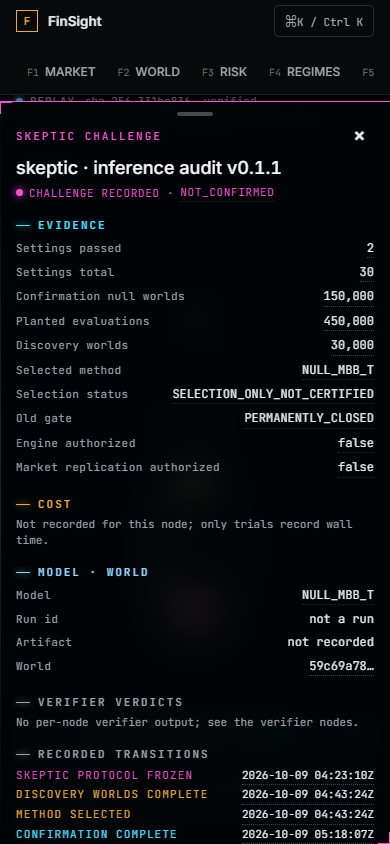
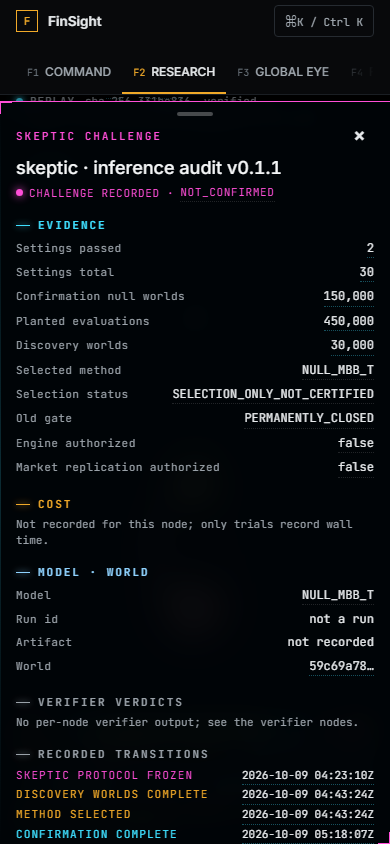
docs(research): record the #37 follow-ups; refresh Research screenshots

Changed region(s): [[0.1231, 0.0616, 0.8615, 0.0924], [0.9231, 0.0616, 0.9538, 0.0924]]

diff --git a/docs/q3-visual-research.md b/docs/q3-visual-research.md
@@ -85,11 +85,21 @@ node scripts/verify-research.mjs --url http://127.0.0.1:4178      # browser chec
 - Screenshots: `docs/screenshots/q3-research-bloom-{1440,390}.png` and
   `q3-research-hud-{1440,390}.png`.
 
+## Follow-ups landed (after #37)
+
+- The shell now has seven workspaces (#39); Research is F2.
+- A suggested question from F1 Command arrives as `?q=` and shows in the inert prompt line, marked
+  "suggested, not run" (#39).
+- Labels try vertical nudges before hiding. A nudged label keeps a thin leader back to its node, and labels
+  keep a 16 px gutter from the viewport edges.
+- The graph dims while a node's panel is open.
+- In the legend, colour and timeline rows show the swatch and its meaning, without repeating the colour's name.
+  The rail legend fades at its bottom edge, where it scrolls.
+- The verdict is set at full contrast, with its state colour as a rule on its left.
+- LIVE (not enabled in this build) uses a neutral "off" dot, not the red "dead" one.
+
 ## Knowingly left
 
-- The shell still has ten workspaces and Research sits at F6. Consolidating to seven (F2 Research) with
-  redirects is the next slice.
-- F1 Command, the Global Eye propagation arcs, Forge trajectory replay and Bench, and the Dynamics scenes are
-  not built. `<Num>` is used on Research only.
-- The page does not consume `/live/stream` yet, so suggested questions from the Live Spine do not appear.
-- Labels declutter by priority (lower-priority labels hide on collision) rather than using leader lines.
+- The Global Eye propagation arcs, Forge trajectory replay and Bench, and the Dynamics scenes are not built.
+  `<Num>` is used on Research only (U2).
+- The page does not consume `/live/stream` itself.
